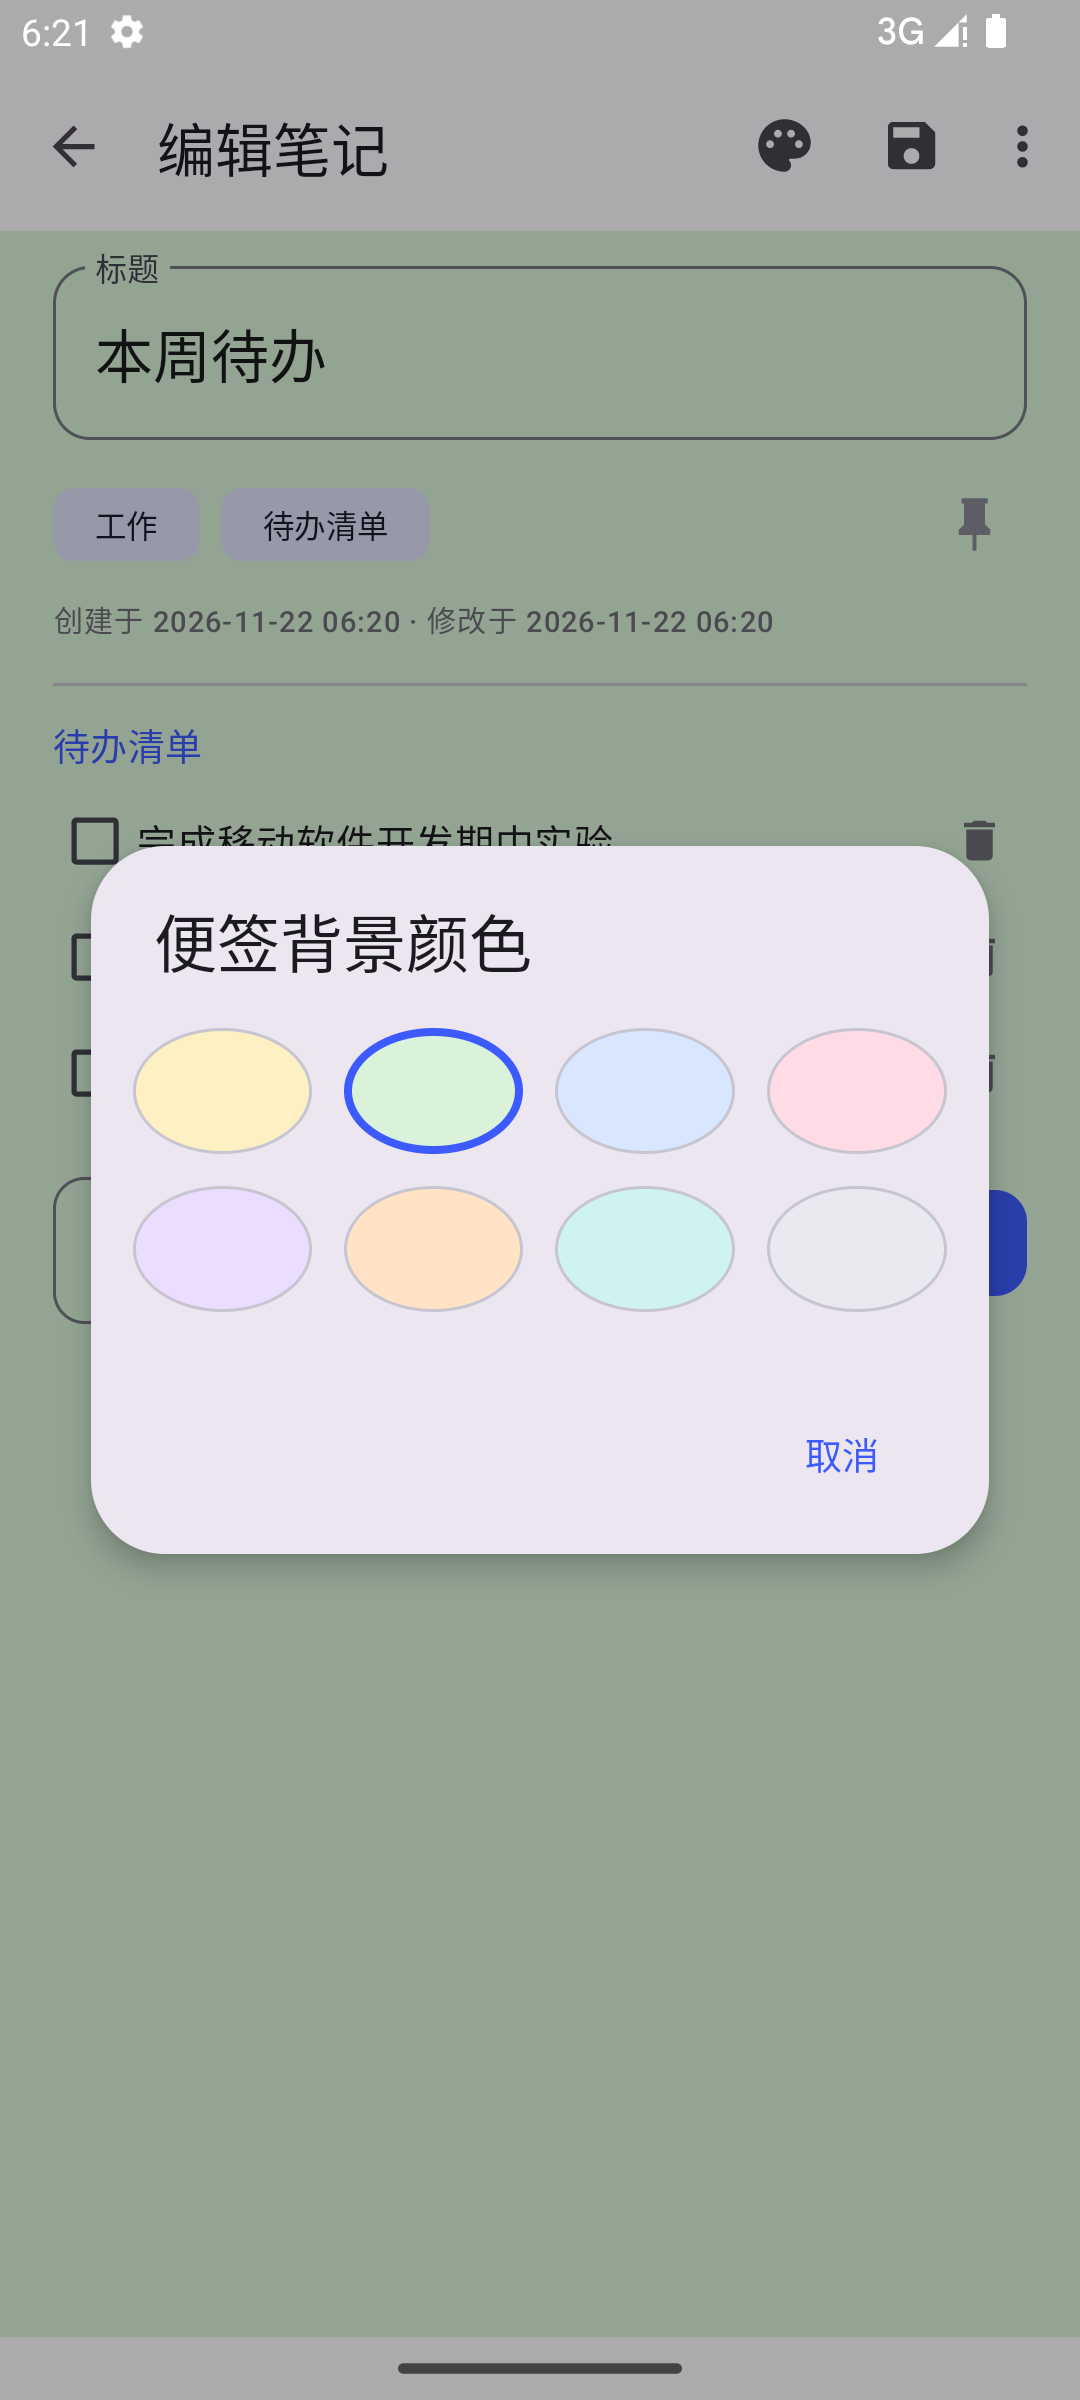
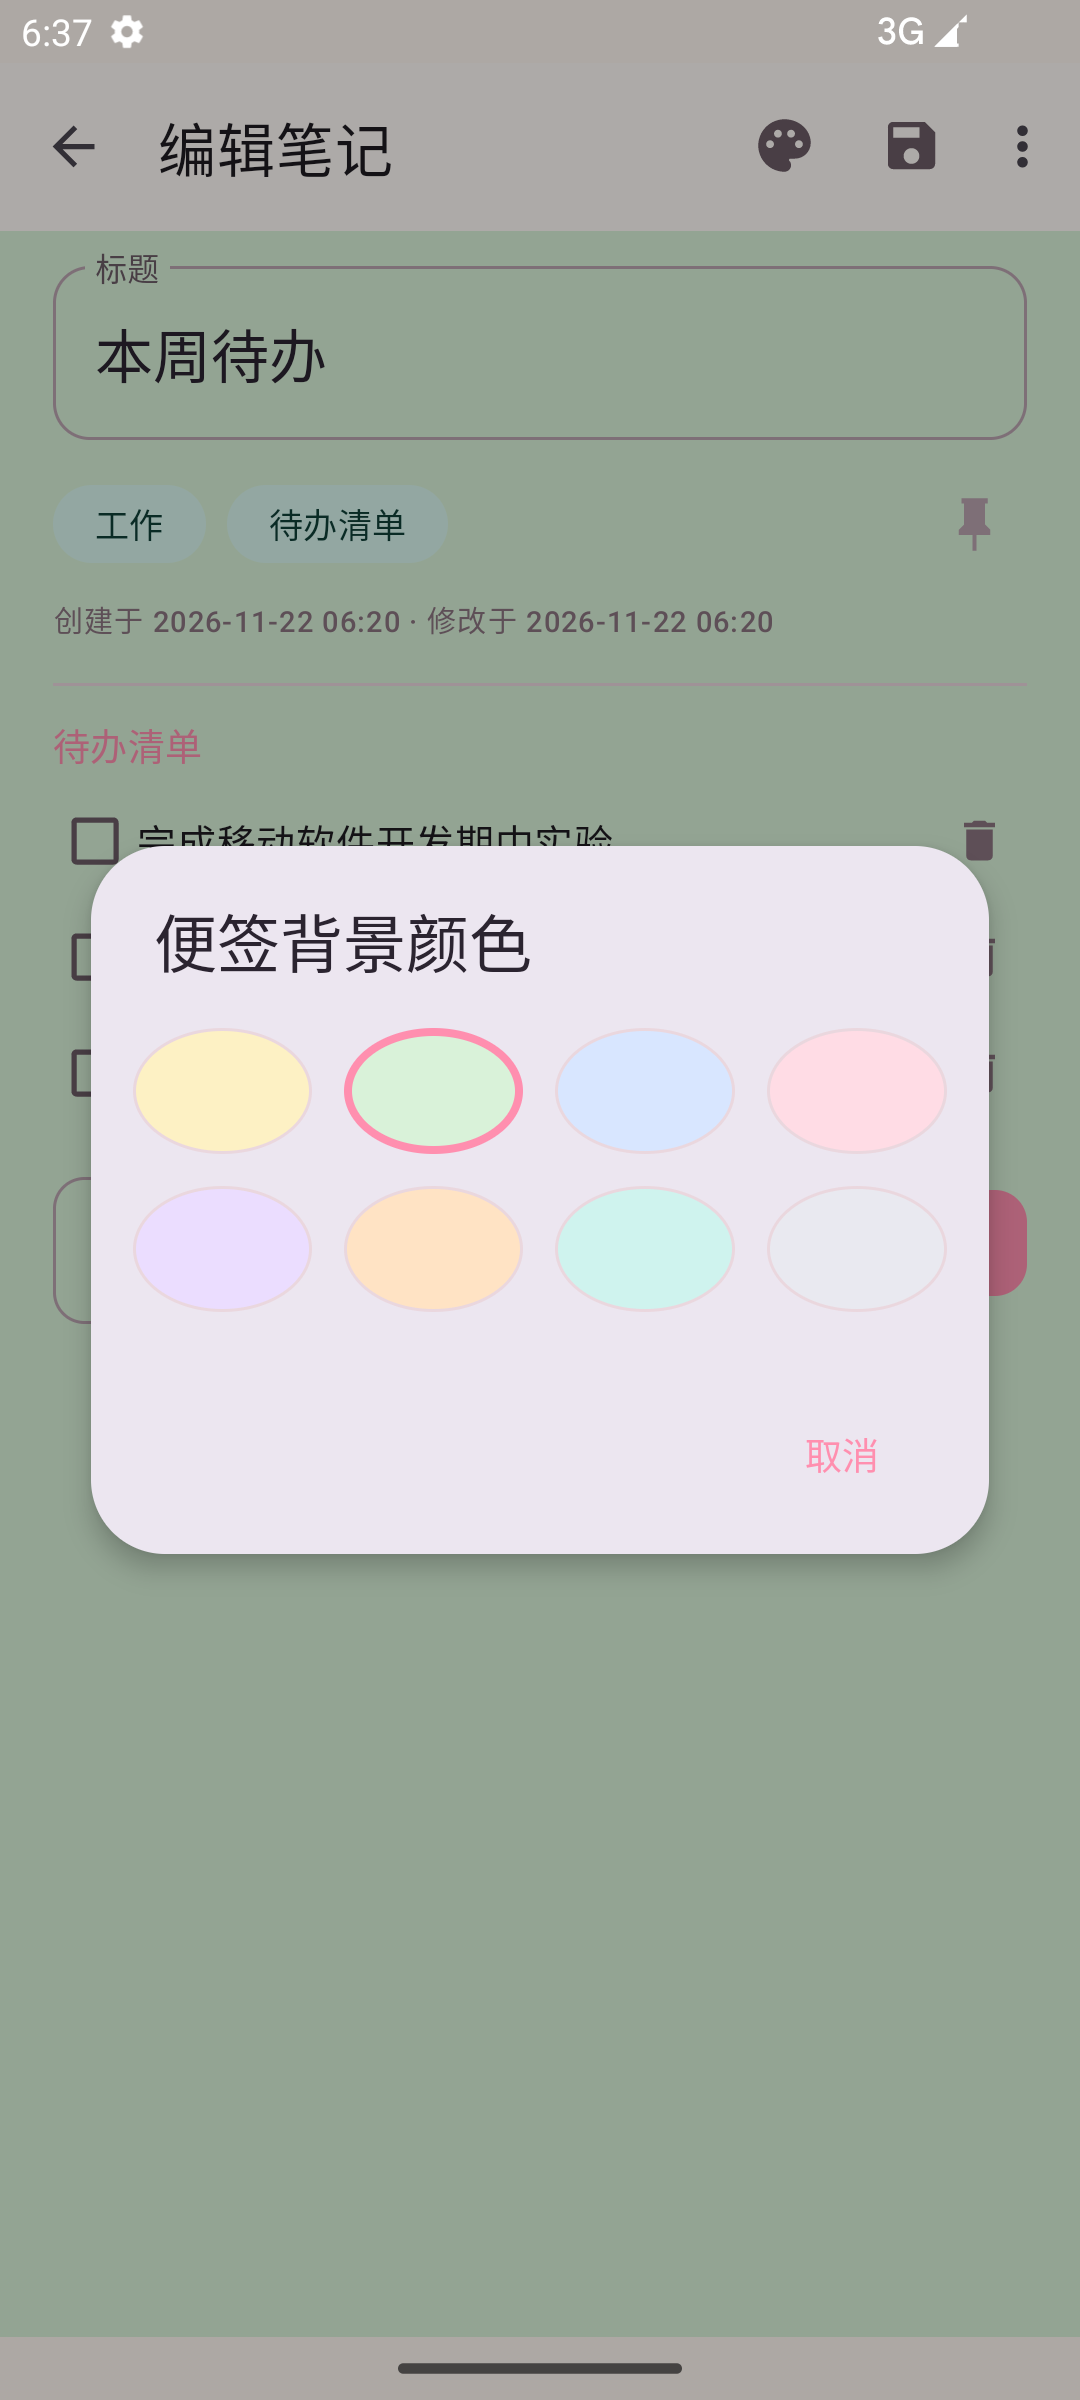
feat: 糖果色卡通主题、渐变背景与圆角贴纸卡片

diff --git a/app/src/main/java/com/example/notepad/ui/CuteBackgroundDrawable.java b/app/src/main/java/com/example/notepad/ui/CuteBackgroundDrawable.java
@@ -1,0 +1,123 @@
+package com.example.notepad.ui;
+
+import android.content.Context;
+import android.content.res.Configuration;
+import android.graphics.Canvas;
+import android.graphics.ColorFilter;
+import android.graphics.LinearGradient;
+import android.graphics.Paint;
+import android.graphics.Path;
+import android.graphics.PixelFormat;
+import android.graphics.Rect;
+import android.graphics.Shader;
+import android.graphics.drawable.Drawable;
+
+import androidx.annotation.NonNull;
+
+/**
+ * 可爱卡通风格背景：柔和渐变搭配云朵、星星与圆点点缀。
+ */
+public class CuteBackgroundDrawable extends Drawable {
+
+    private final Paint paint = new Paint(Paint.ANTI_ALIAS_FLAG);
+    private final Path starPath = new Path();
+    private final boolean night;
+    private final float density;
+
+    private Shader gradient;
+
+    public CuteBackgroundDrawable(Context context) {
+        night = (context.getResources().getConfiguration().uiMode
+                & Configuration.UI_MODE_NIGHT_MASK) == Configuration.UI_MODE_NIGHT_YES;
+        density = context.getResources().getDisplayMetrics().density;
+    }
+
+    @Override
+    protected void onBoundsChange(Rect bounds) {
+        super.onBoundsChange(bounds);
+        int[] colors = night
+                ? new int[]{0xFF201721, 0xFF241A27, 0xFF172128}
+                : new int[]{0xFFFFF7F2, 0xFFFFF0F7, 0xFFEDF9FF};
+        gradient = new LinearGradient(
+                bounds.left, bounds.top, bounds.right, bounds.bottom,
+                colors, new float[]{0f, 0.55f, 1f}, Shader.TileMode.CLAMP);
+    }
+
+    @Override
+    public void draw(@NonNull Canvas canvas) {
+        Rect bounds = getBounds();
+        paint.setShader(gradient);
+        paint.setStyle(Paint.Style.FILL);
+        canvas.drawRect(bounds, paint);
+        paint.setShader(null);
+
+        float w = bounds.width();
+        float h = bounds.height();
+        int cloud = night ? 0x14FFFFFF : 0x66FFFFFF;
+        int pink = night ? 0x30FFB0C6 : 0x33FF8FAF;
+        int mint = night ? 0x227FE0CC : 0x2E56C8B4;
+        int apricot = night ? 0x1EFFCF8F : 0x26FFB65C;
+
+        cloud(canvas, w * 0.80f, h * 0.09f, 1.1f, cloud);
+        cloud(canvas, w * 0.16f, h * 0.32f, 0.8f, cloud);
+        cloud(canvas, w * 0.72f, h * 0.68f, 0.65f, cloud);
+
+        sparkle(canvas, w * 0.90f, h * 0.24f, 10f, pink);
+        sparkle(canvas, w * 0.10f, h * 0.16f, 7f, mint);
+        sparkle(canvas, w * 0.24f, h * 0.58f, 8f, apricot);
+        sparkle(canvas, w * 0.86f, h * 0.52f, 6f, mint);
+        sparkle(canvas, w * 0.60f, h * 0.88f, 7f, pink);
+
+        dot(canvas, w * 0.06f, h * 0.72f, 5f, mint);
+        dot(canvas, w * 0.94f, h * 0.82f, 6f, apricot);
+        dot(canvas, w * 0.44f, h * 0.20f, 4f, pink);
+        dot(canvas, w * 0.52f, h * 0.47f, 3.5f, mint);
+    }
+
+    private void cloud(Canvas canvas, float cx, float cy, float scale, int color) {
+        float unit = density * scale;
+        paint.setStyle(Paint.Style.FILL);
+        paint.setColor(color);
+        canvas.drawCircle(cx, cy, 20f * unit, paint);
+        canvas.drawCircle(cx - 18f * unit, cy + 5f * unit, 14f * unit, paint);
+        canvas.drawCircle(cx + 17f * unit, cy + 4f * unit, 12f * unit, paint);
+        canvas.drawCircle(cx - 2f * unit, cy + 8f * unit, 16f * unit, paint);
+    }
+
+    private void sparkle(Canvas canvas, float cx, float cy, float radiusDp, int color) {
+        float r = radiusDp * density;
+        float inner = r * 0.18f;
+        starPath.reset();
+        starPath.moveTo(cx, cy - r);
+        starPath.quadTo(cx + inner, cy - inner, cx + r, cy);
+        starPath.quadTo(cx + inner, cy + inner, cx, cy + r);
+        starPath.quadTo(cx - inner, cy + inner, cx - r, cy);
+        starPath.quadTo(cx - inner, cy - inner, cx, cy - r);
+        starPath.close();
+        paint.setStyle(Paint.Style.FILL);
+        paint.setColor(color);
+        canvas.drawPath(starPath, paint);
+    }
+
+    private void dot(Canvas canvas, float cx, float cy, float radiusDp, int color) {
+        paint.setStyle(Paint.Style.FILL);
+        paint.setColor(color);
+        canvas.drawCircle(cx, cy, radiusDp * density, paint);
+    }
+
+    @Override
+    public void setAlpha(int alpha) {
+        // 背景装饰不支持单独透明度，保持默认。
+    }
+
+    @Override
+    public void setColorFilter(ColorFilter colorFilter) {
+        // 背景装饰不支持额外滤镜。
+    }
+
+    @Override
+    @SuppressWarnings("deprecation")
+    public int getOpacity() {
+        return PixelFormat.TRANSLUCENT;
+    }
+}

diff --git a/app/src/main/java/com/example/notepad/MainActivity.java b/app/src/main/java/com/example/notepad/MainActivity.java
@@ -24,6 +24,7 @@ import androidx.recyclerview.widget.RecyclerView;
 
 import com.example.notepad.data.Note;
 import com.example.notepad.data.NoteDbHelper;
+import com.example.notepad.ui.CuteBackgroundDrawable;
 import com.example.notepad.ui.NoteAdapter;
 import com.example.notepad.util.BackupManager;
 import com.example.notepad.util.NoteJsonUtils;
@@ -69,6 +70,7 @@ public class MainActivity extends AppCompatActivity implements NoteAdapter.Liste
     protected void onCreate(Bundle savedInstanceState) {
         super.onCreate(savedInstanceState);
         setContentView(R.layout.activity_main);
+        findViewById(R.id.root).setBackground(new CuteBackgroundDrawable(this));
 
         db = NoteDbHelper.get(this);
         toolbar = findViewById(R.id.toolbar);

diff --git a/app/src/main/java/com/example/notepad/SettingsActivity.java b/app/src/main/java/com/example/notepad/SettingsActivity.java
@@ -14,6 +14,7 @@ import androidx.appcompat.widget.Toolbar;
 import androidx.core.content.ContextCompat;
 
 import com.example.notepad.ui.ColorPickerDialog;
+import com.example.notepad.ui.CuteBackgroundDrawable;
 import com.example.notepad.util.NoteColors;
 import com.example.notepad.util.Prefs;
 
@@ -28,6 +29,7 @@ public class SettingsActivity extends AppCompatActivity {
     protected void onCreate(Bundle savedInstanceState) {
         super.onCreate(savedInstanceState);
         setContentView(R.layout.activity_settings);
+        findViewById(R.id.settingsRoot).setBackground(new CuteBackgroundDrawable(this));
 
         Toolbar toolbar = findViewById(R.id.toolbar);
         setSupportActionBar(toolbar);

diff --git a/README.md b/README.md
@@ -37,7 +37,8 @@
    待办内容以 `[ ] 条目` / `[x] 条目` 纯文本存储，导出、备份后不丢失。
 
 4. **便签美化与主题**
-   提供 8 种便签背景色，列表卡片与编辑器背景同步着色，深色主题下自动调暗保证可读性；
+   采用糖果色系主题，主界面使用卡通渐变背景并点缀云朵、星星图案；提供 8 种便签背景色，
+   列表卡片为圆角贴纸样式，卡片与编辑器背景同步着色，深色主题下自动调暗保证可读性；
    支持跟随系统、浅色、深色三种主题，以及纯色 / 横线纸两种编辑器背景样式。
 
 5. **排序与置顶**
@@ -64,7 +65,8 @@
   并与分类、类型条件动态拼接。
 - **待办**：`TodoUtils` 负责待办文本的序列化与解析，清单项以 Markdown 风格复选框文本落库。
 - **主题与配色**：`Prefs` 保存偏好，`AppCompatDelegate` 切换夜间模式；`NoteColors` 统一管理色板，
-  `LinedPaperDrawable` 自定义 Drawable 绘制横线纸背景。
+  `LinedPaperDrawable` 自定义 Drawable 绘制横线纸背景，`CuteBackgroundDrawable` 绘制卡通渐变背景
+  与云朵、星星装饰，深浅色主题各有一套配色。
 - **文件读写**：导出/导入使用 Storage Access Framework；备份通过 `FileProvider`
   生成可分享的 `content://` URI，不暴露真实文件路径。
 - **UI**：`RecyclerView` + 自定义 `NoteAdapter`，`MaterialCardView` 便签卡片，
@@ -84,6 +86,7 @@ app/src/main/
 │   ├── ui/
 │   │   ├── NoteAdapter.java        # 笔记列表适配器
 │   │   ├── ColorPickerDialog.java  # 便签颜色选择
+│   │   ├── CuteBackgroundDrawable.java # 卡通渐变背景
 │   │   └── LinedPaperDrawable.java # 横线纸背景
 │   └── util/
 │       ├── Prefs.java              # 偏好设置读写
